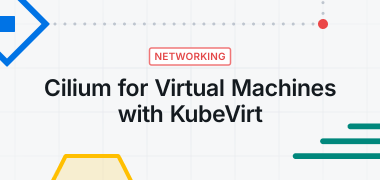
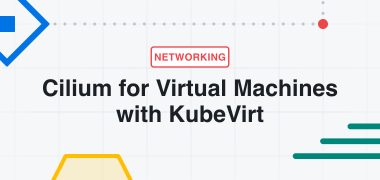
fix: use category-specific lab covers

Changed region(s): [[0.1158, 0.4167, 0.8974, 0.5556], [0.2895, 0.5833, 0.6947, 0.6944], [0.3763, 0.25, 0.6079, 0.3889]]

diff --git a/content/labs/2026-06-09-cilium-gateway-api-external-auth/index.md b/content/labs/2026-06-09-cilium-gateway-api-external-auth/index.md
@@ -3,7 +3,6 @@ date: '2026-06-09T22:01:06.000Z'
 externalUrl: 'https://labs.isovalent.com/?utm_source=website-cilium&utm_medium=referral&utm_campaign=cilium-lab#/lab/cilium-gateway-api-external-auth'
 ogImage: cover.png
 categories:
-  - Networking
   - Security
 place: Online
 title: 'Cilium Gateway API: External Authentication'

diff --git a/content/labs/2024-10-04-cilium-kubevirt/index.md b/content/labs/2024-10-04-cilium-kubevirt/index.md
@@ -4,7 +4,6 @@ externalUrl: 'https://labs.isovalent.com/?utm_source=website-cilium&utm_medium=r
 ogImage: cover.png
 categories:
   - Networking
-  - Security
 place: Online
 title: 'Cilium for Virtual Machines with KubeVirt'
 ogSummary: 'Run VMs and containers side by side with Cilium-powered networking.'
